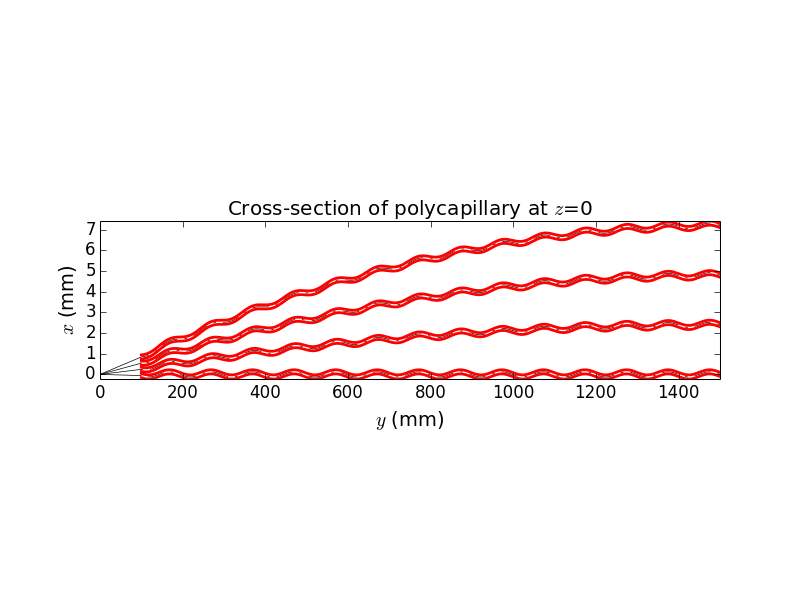
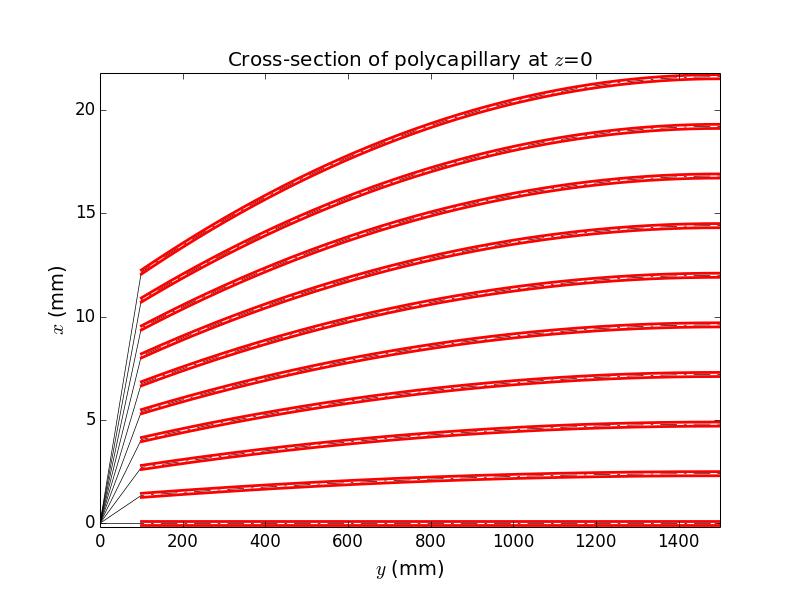
critical angle demo? 0.81ks

diff --git a/myCapillary0A.py b/myCapillary0A.py
@@ -26,7 +26,7 @@ rSample = 100.
 f = 1500. # y length in mm from foucs to the end of the lens
 r0 = 0.1
 wall = 0.05
-layers = 4 # number of hexagonal layers
+layers = 10 # number of hexagonal layers
 nRefl = 12
 nReflDisp = 12
 xzPrimeMax = 3.
@@ -49,7 +49,7 @@ class BentCapillary(roe.OE):
         self.isParametric = True
 
     def local_x0(self, s):  # axis of capillary, x(s)
-        return self.a0 * s**2 + self.b0 + np.sin(s/16)/8 # funky sin shape add
+        return self.a0 * s**2/2 + self.b0
 
     def local_x0Prime(self, s):
         return 2 * self.a0 * s
